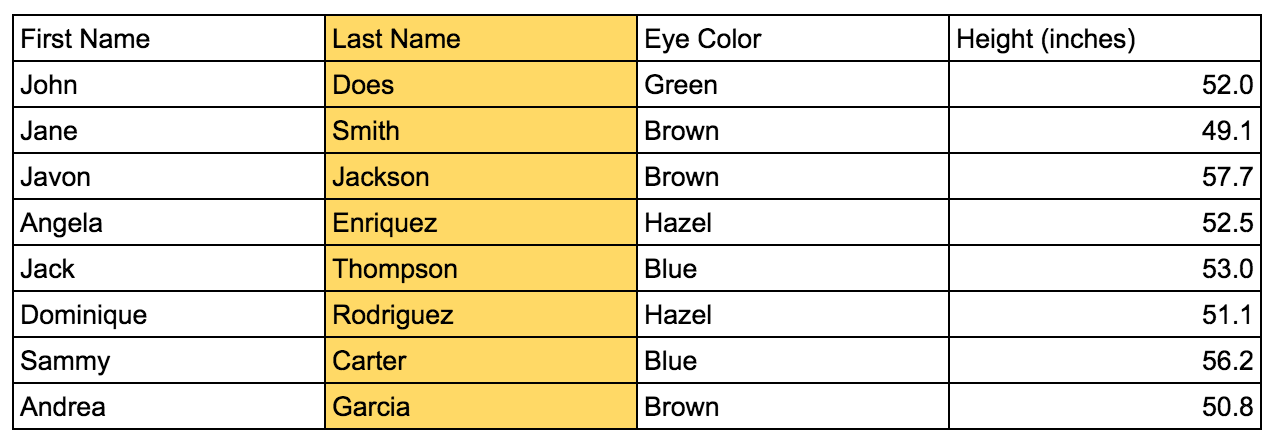
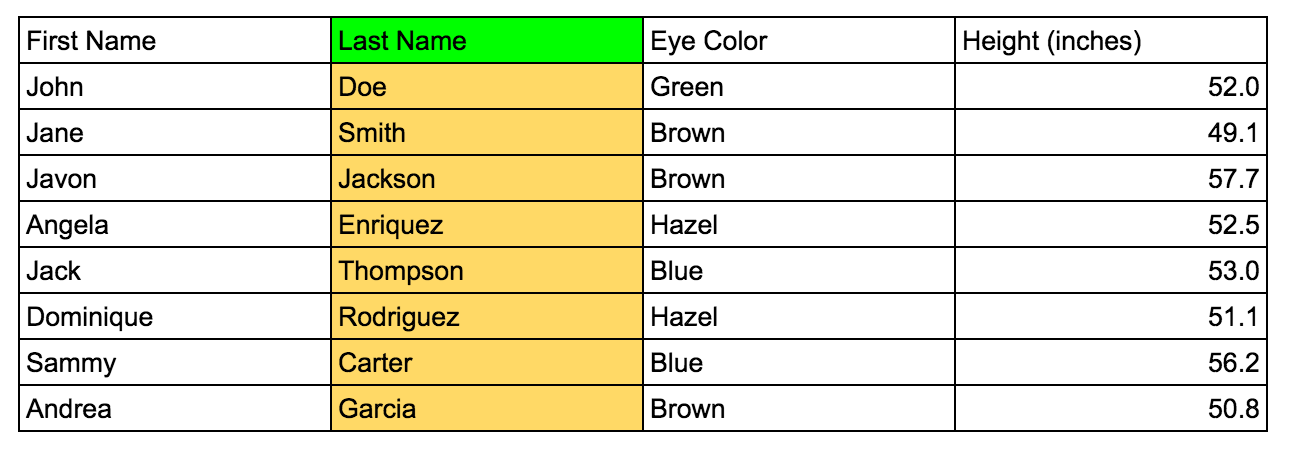
[SD] tentative done 1, 2

Changed region(s): [[0.0, 0.0312, 1.0, 0.9688]]

diff --git a/unit_2/unit_2.md b/unit_2/unit_2.md
@@ -16,10 +16,20 @@ categorical and quantitative data.
 ### Length: 45 Minutes
 
 ### Glossary:
+ - **Quantitative Data**: Numerical data
+   that measures an amount. Quantitative 
+   data can meaningfully be added or 
+   subtracted from other Quantitative
+   data of the same kind, or compared 
+   with less than/greater than other
+   Quantitative data of the same kind.
+   
  - **Categorical Data**: Data that can
    only have a certain number of values.
- - **Quantitative Data**: Numerical 
-   data that measures an amount.
+   Unlike Quantitative Data, Categorical
+   Data cannot be compared meaningfully 
+   with addition, subtraction, less than,
+   or greater than.
 
 ### Materials:
  - Google Drive
@@ -43,76 +53,71 @@ the two different kinds of data that
 can appear in tables: **categorical** and
 **quantitative**.
 
-## <a id="categorical"></a> Categorical Data
+## <a id="quantitative"></a> Quantitative Data
 
 Let's look again at the very first 
 example of a table from Unit 1:
 
-| First Name | Last Name | Hair Color     | Height (inches) |
-|------------|-----------|----------------|-----------------|
-| John       | Doe       | Blonde         | 52.0            |
-| Jane       | Smith     | Brown          | 49.1            |
-| Javon      | Jackson   | Black          | 57.7            |
-| Angela     | Enriquez  | Black          | 52.5            |
-| Jack       | Thompson  | Red            | 53.0            |
-| Dominique  | Rodriguez | Brown          | 51.1            |
-| Sammy      | Carter    | Blonde         | 56.2            |
-| Andrea     | Garcia    | Black          | 50.8            |
+![Basic Table](/unit_2/img/table_basic.png)
 
-The first kind of data we'll look
-at is **categorical** data.  If a 
-column contains **categorical** data,
-each value can only be one of a few
-choices (also called categories).
+The first kind of data we will look at is
+**Quantitative Data**.  **Quantitative Data**
+always measures an amount of something.  If
+a question asks "how much" there is of something,
+the answer will be quantitative data.
 
-Let's think about hair color for a second.
-How many different hair colors are there
-without hair dye?
+Look at the Height (inches) column.  
+If you ask the question "How tall is John Doe?"
+(in other words, how much height does John Doe
+have?), the answer is 52.0 inches.  **Quantitative
+Data** usually has units of measurement;
+in this case the unit of measurement is inches.
+
+Another important fact is that **Quantitative Data**
+can be larger or smaller than other **Quantitative Data**.
+For example, if we ask the question "Is John Doe
+taller than Andrea Garcia?" (in other words, does John
+Doe have more height than Andrea Garcia), it can
+be answered by comparing their entries in the height
+column.  John Doe's height is bigger than Andrea Garcia's,
+so we can say yes, he is taller.
+
+## <a id="categorical"></a> Categorical Data
+
+Now look at the Eye Color column.
+
+![Basic Table](/unit_2/img/table_basic.png)
+
+Can we ask the question "Does John Doe have 
+more eye color than Andrea Garcia?"  No.
+That question makes no sense.  The second
+kind of data we will look at is **Categorical
+Data**.  We used **Quantitative Data** to quantify;
+to ask "how much" there is of something.  **Categorical
+Data** is used to categorize;  it puts something
+into a category.  In this case, students
+are put into the same category if they have
+the same eye color.
+
+Let's think about eye color for a second.
+How many different eye colors are there?
 
 *Guide students towards this list:
-Blonde, Brown, Black, Red, White, Grey.*
+Amber, Blue, Green, Brown, Grey, Hazel.*
 
 So if there are only 6 different natural
-hair colors, then each value in the column
-has to be one of these categories.  Here,
-Hair Color is a **categorical** variable,
-which means that the column contains
-**categorical** data.
-
-## <a id="quantitative"></a> Quantitative Data
-
-Now look at the Height (inches) column.  
-How many possible values are there for
-an entry in this column?  In other words,
-is there a fixed number of categories 
-of height that a student could have?
-
-Height is **quantitative** data:  there 
-is no fixed number of values that an
-entry in the table could have.
-The main difference between 
-**quantitative** and **categorical**
-data is that **quantitative** 
-data can be less than or more than
-other values of **quantitative** data.
-In other words, **quantitative** data
-measures the *amount* of something; it
-quantifies something.
-
-For example, Sammy Carter has height
-56.2 and John Doe has height 52.0, which
-means Sammy Carter is taller than John
-Doe, because she has more height.  Notice
-how for Hair Color (**categorical**) 
-can't be compared this way; the question
-"is blonde more than brown" doesn't make
-any sense.
-
+eye colors, then each value in the column
+has to be one of these categories.  We would
+say that this column has 6 different possible
+categories.
+ 
 ### Exercise:
 
 Open your [google drive](https://drive.google.com)
 and open the `intro` file which has the
-first two tables you've loaded into Pyret.
+first two tables you've loaded into Pyret.  Then
+turn to page 3 and answer the questions about 
+these two data sets.
 
  - Look at the Presidents table again.
    Does the state column have **categorical**
@@ -135,9 +140,24 @@ these two kinds of data.
 
 If you are ever trying to figure out if
 data is **categorical** or **quantitative**,
-ask yourself: "How many choices are there 
-for a value?".  If you can count this number,
-the data is categorical.  Otherwise, ask
-"Is this value measuring the amount of 
-something?"  If it is, it's quantitative.
+ask yourself: is this data measuring an
+amount of something? Does it make sense to
+add/subtract values in this column?  If yes, 
+then it is **quantitative**.  Otherwise, 
+it's **categorical**.
 
+If a column contains numbers, it is usually
+quantitative, but not always!  For example,
+a column containing zip codes is **categorical**,
+because zip codes are not measuring an amount of
+anything.
+
+### Teacher's Notes
+ - * Quantitative data may be continuous (no
+   fixed number of possible values) or discrete
+   (a fixed number of values).  For example, 
+   a column containing scores for a test with
+   two questions has 3 possible values: 0, 50, 
+   or 100.  However, this is still quantitative
+   and not categorical because the values are 
+   measuring an amount (the amount of correctness)

diff --git a/unit_1/workbook_1_answers.md b/unit_1/workbook_1_answers.md
@@ -7,22 +7,24 @@
 | Spider | 8              |
 | Bear   | 4              |  
 
- - How many rows does this table have? ___________
- - How many columns does this table have? ___________
- - What are the attributes in the header row? __________
+ - How many rows does this table have? ____5______
+ - How many columns does this table have? ___2_______
+ - What are the attributes in the header row? 
+   ___Animal, Number Of Legs___
  - What is the value of the "Number of Legs" 
-   entry for the Human record? _________
+   entry for the Human record? ___2_____
 
 ## Page 2
 
  - How many rows does the presidents 
-   table have? ___________
+   table have? __46______
  - How many columns does the presidents 
-   table have? ___________
+   table have? __6______
  - What are the attributes in the header 
-   row? _______________________________
+   row? __presidency, name, party, home-state,
+   year-started, year-ended___
  - What is the home state of
-   Millard Fillmore? __________________
+   Millard Fillmore? __New York_____
  - What year did Rutherford B. Hayes
-   start his presidency? ______________
+   start his presidency? ___1877_____
 

diff --git a/unit_2/workbook_2_answers.md b/unit_2/workbook_2_answers.md
@@ -1,0 +1,23 @@
+## Page 3
+
+### Presidents Table
+ - Does the party column have
+   quantitative or categorical
+   data?  _______categorical________
+ - How many categories are there for
+   a value in the home-state column?
+   ______50________
+ - What kind of data does the year-started
+   column have?  __quantitative______
+
+### Nutrition Table
+ - What kind of data does the calories
+   column have?  __quantitative____
+ - How can you tell? __values in this
+   column measure the amount of calories
+   are in a menu item.  Subtracting 
+   values from this column gives the 
+   difference in calories between two items,
+   adding values gives the total calories
+   from eating both items.___
+

diff --git a/unit_2/workbook_2.md b/unit_2/workbook_2.md
@@ -1,0 +1,18 @@
+## Page 3
+
+### Presidents Table
+ - Does the party column have
+   quantitative or categorical
+   data?  ____________________
+ - How many categories are there for
+   a value in the home-state column?
+   ________________
+ - What kind of data does the year-started
+   column have?  __________________
+
+### Nutrition Table
+ - What kind of data does the calories
+   column have?  __________________
+ - How can you tell? ______________
+   ________________________________
+
